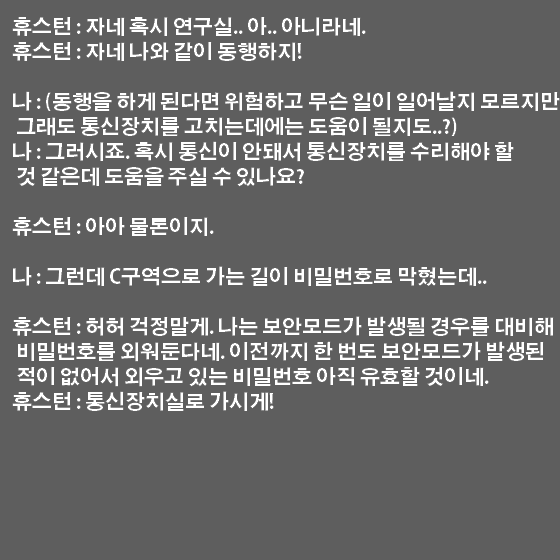
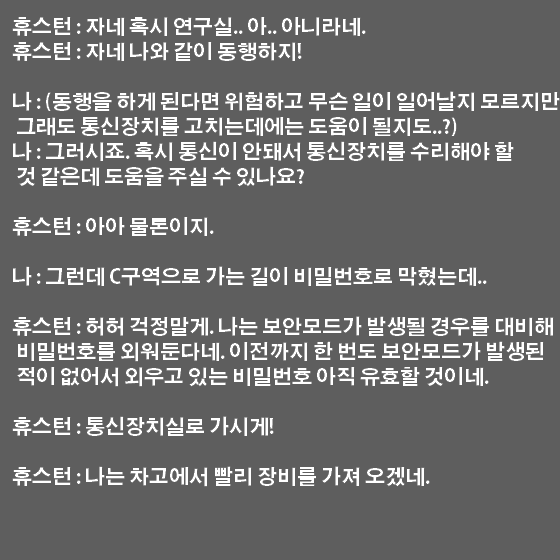
picture ++

Changed region(s): [[0.0304, 0.8196, 0.7589, 0.8804], [0.0304, 0.6982, 0.4857, 0.7893]]

diff --git a/Demo/c_hall.py b/Demo/c_hall.py
@@ -59,6 +59,8 @@ def textls(): # 텍스트 수동 입력
             t1.reset("성공")
         if scr == 4: # 2번째 대사 [이 아래에 더 추가 가능]
             t1.reset("카드키가 없습니다.")
+        if scr == 5:
+            t1.reset("강철 자물쇠가 걸려 있다")
         
         # if scr == i: # i번째 대사 (샘플)
         #   t1.reset("가장 위쪽에 나오는 대사(1번째 줄)")
@@ -207,8 +209,10 @@ def maprun():
                 setscr(2)
             if goto_A_long_button.check() == 1:
                 if '카드키' in getitem():
-                    setscr(3)
-                    car_room.maprun()
+                    if mode1['main_event'] > 0:
+                        car_room.maprun()
+                    else:
+                        setscr(5)
                 else:
                     setscr(4)
             if goto_B_long_button.check() == 1:

diff --git a/Demo/b_bedroom.py b/Demo/b_bedroom.py
@@ -126,10 +126,14 @@ def maprun():
     b_hall_button.textsize = 20
     b_hall_button.font = 'pixel.ttf'
 
+    bgimg = pygame.image.load('images/b_bedroom.png')
+    bgimg = pygame.transform.scale(bgimg, (560, 560))
+
     while run:
         # 세팅 [ 건드리지 말아야 할 것]
         screen.fill(pygame.color.Color(50, 50, 50))
         pygame.draw.rect(screen, (20,20,20), [20, 20, 560, 560])
+        screen.blit(bgimg, (20, 20))
         # main [여기에 코드 입력] > 이미지 오브젝트, 텍스트(prtext) 등등
 
         # UI

diff --git a/Demo/a_lab.py b/Demo/a_lab.py
@@ -156,8 +156,8 @@ def maprun():
     vio = 0
 
     #test
-    item_t.append('망치')
-    item_t.append('카드키')
+    # item_t.append('망치')
+    # item_t.append('카드키')
     while run:
         # 세팅 [ 건드리지 말아야 할 것]
         screen.fill(pygame.color.Color(50, 50, 50))

diff --git a/Demo/a_system.py b/Demo/a_system.py
@@ -289,6 +289,7 @@ def maprun():
                     t1.md = 0
                     t1.mm = 0
                     setscr(0)
+                    actionbar.print('차고가 열렸습니다')
         
         #fin [끝]
         pygame.display.flip()
